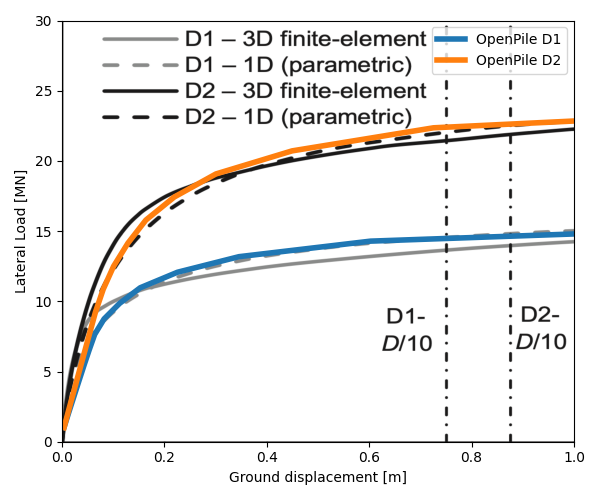
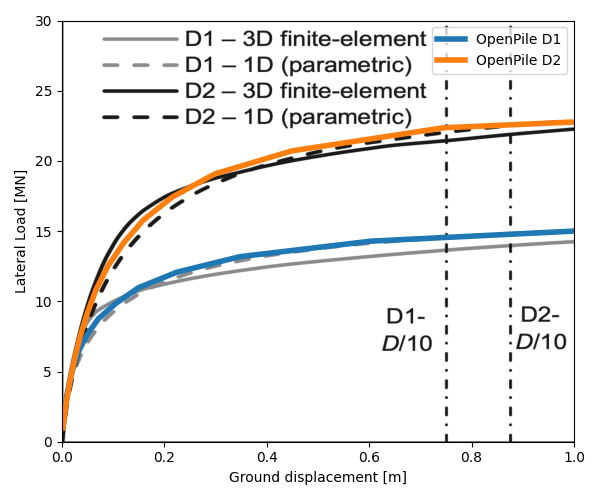
imclusion of scipy sparse matrices

diff --git a/src/openpile/core/kernel.py b/src/openpile/core/kernel.py
@@ -9,8 +9,12 @@
 # general utilities for openfile
 
 from copy import deepcopy
+from dataclasses import dataclass
+
 import numpy as np
 import pandas as pd
+from scipy import sparse
+from scipy.sparse.linalg import spsolve
 from typing_extensions import Literal
 
 from openpile.construct import CircularPileSection
@@ -20,6 +24,8 @@ from openpile.core._model_build import parameter2elements
 
 
 def jit_solve(A, b):
+    if sparse.issparse(A):
+        return spsolve(A, b)
     return np.linalg.solve(A, b)
 
 
@@ -40,24 +46,6 @@ def double_inner_njit(in_arr):
         out_arr[1:-1] = np.repeat(in_arr[1:-1], 2)
 
     return out_arr
-
-
-def numba_ix(arr, rows, cols):
-    """
-    Numba compatible implementation of arr[np.ix_(rows, cols)] for 2D arrays.
-    :param arr: 2D array to be indexed
-    :param rows: Row indices
-    :param cols: Column indices
-    :return: 2D array with the given rows and columns of the input array
-    """
-    one_d_index = np.zeros(len(rows) * len(cols), dtype=np.int32)
-    for i, r in enumerate(rows):
-        start = i * len(cols)
-        one_d_index[start : start + len(cols)] = cols + arr.shape[1] * r
-
-    arr_1d = arr.reshape((arr.shape[0] * arr.shape[1], 1))
-    slice_1d = np.take(arr_1d, one_d_index)
-    return slice_1d.reshape((len(rows), len(cols)))
 
 
 def global_dof_vector_to_consistent_stacked_array(dof_vector, dim):
@@ -120,10 +108,11 @@ def solve_equations(K, F, U, restraints):
 
         prescribed_disp = U
 
-        Fred = F[prescribed_dof_false] - numba_ix(K, prescribed_dof_false, prescribed_dof_true).dot(
-            prescribed_disp[prescribed_dof_true]
-        )
-        Kred = numba_ix(K, prescribed_dof_false, prescribed_dof_false)
+        # row/column slicing works for both dense arrays and sparse CSR matrices
+        Kft = K[prescribed_dof_false][:, prescribed_dof_true]
+        Kred = K[prescribed_dof_false][:, prescribed_dof_false]
+
+        Fred = F[prescribed_dof_false] - Kft.dot(prescribed_disp[prescribed_dof_true])
 
         U[prescribed_dof_false] = jit_solve(Kred, Fred)
     else:
@@ -690,25 +679,56 @@ def elem_p_delta_stiffness_matrix(model, u):
     return k
 
 
-def jit_build(k, ndim, n_elem, node_per_element, ndof_per_node):
-    # pre-allocate stiffness matrix
-    K = np.zeros((ndim, ndim), dtype=np.float64)
+@dataclass(frozen=True)
+class StiffnessPattern:
+    """Constant CSR structure of the global stiffness matrix.
 
-    for i in range(n_elem):
-        # dummy stiffness matrix that updates at each iteration
-        K_temp = np.zeros((ndim, ndim), dtype=np.float64)
-        # select relevant rows/columns of dummy stiffness matrix
-        start = ndof_per_node * i
-        end = ndof_per_node * i + ndof_per_node * node_per_element
-        K_temp[start:end, start:end] = k[i]
+    It depends only on the mesh connectivity, not on stiffness values, so it can
+    be computed once and reused at every iteration of the solver.
+    """
 
-        # update global stiffness matrix
-        K += K_temp
-
-    return K
+    order: np.ndarray    # permutation of the element-matrix triplets matching (row, col) sort order
+    group: np.ndarray    # CSR data slot each element-matrix entry contributes to
+    indices: np.ndarray  # CSR column indices
+    indptr: np.ndarray   # CSR row pointer
 
 
-def build_stiffness_matrix(model, u=None, kind=None):
+def stiffness_pattern(ndim, n_elem, node_per_element, ndof_per_node) -> StiffnessPattern:
+    n_loc = ndof_per_node * node_per_element
+    # global dof index of each local dof, shape (n_elem, n_loc)
+    dofs = np.arange(n_elem)[:, None] * ndof_per_node + np.arange(n_loc)[None, :]
+    rows = np.repeat(dofs, n_loc, axis=1).ravel()
+    cols = np.tile(dofs, (1, n_loc)).ravel()
+
+    # sort triplets into CSR layout and fold duplicate entries (shared nodes) into unique slots
+    order = np.lexsort((cols, rows))
+    rows_s, cols_s = rows[order], cols[order]
+    new_slot = np.empty(rows_s.shape, dtype=bool)
+    new_slot[0] = True
+    new_slot[1:] = (rows_s[1:] != rows_s[:-1]) | (cols_s[1:] != cols_s[:-1])
+
+    return StiffnessPattern(
+        order=order,
+        group=np.cumsum(new_slot) - 1,
+        indices=cols_s[new_slot],
+        indptr=np.concatenate(([0], np.cumsum(np.bincount(rows_s[new_slot], minlength=ndim)))),
+    )
+
+
+def jit_build(k, ndim, n_elem, node_per_element, ndof_per_node, pattern: StiffnessPattern = None):
+    # assemble all element matrices into a CSR matrix in one vectorized scatter-add
+    if pattern is None:
+        pattern = stiffness_pattern(ndim, n_elem, node_per_element, ndof_per_node)
+
+    data = np.bincount(
+        pattern.group,
+        weights=k.reshape(n_elem, -1).ravel()[pattern.order],
+        minlength=pattern.indices.size,
+    )
+    return sparse.csr_matrix((data, pattern.indices, pattern.indptr), shape=(ndim, ndim))
+
+
+def build_stiffness_matrix(model, n_elem, u=None, kind=None):
     """Builds the stiffness matrix based on the model(element and node) properties
 
     Element stiffness matrices are first computed for each element and then loaded in the global stiffness matrix through summation.
@@ -718,8 +738,8 @@ def build_stiffness_matrix(model, u=None, kind=None):
     ----------
     model : obj from openpile library
         stores all information about nodes elements, and other model-related items, see #TODO:link to model class
-    f: np.ndarray, Optional
-        Global internal force vector.
+    n_elem: int
+        Number of elements in the mesh
     u: np.ndarray, Optional
         Global displacement vector. Must be given if soil_flag is not None
     p_mobilised: np.ndarray, Optional
@@ -729,7 +749,7 @@ def build_stiffness_matrix(model, u=None, kind=None):
 
     Returns
     -------
-    K : numpy array of dim (ndof, ndof)
+    K : scipy.sparse.csr_matrix of dim (ndof, ndof)
         Global stiffness matrix with all dofs in unit:1/kPa.
     """
 
@@ -737,8 +757,6 @@ def build_stiffness_matrix(model, u=None, kind=None):
     ndof_per_node = 3
     # number of nodes per element
     node_per_element = 2
-    # number of elements in mesh
-    n_elem = model.element_number
     # global dimension of the global stiffness matrix can be inferred
     ndim_global = ndof_per_node * n_elem + ndof_per_node
 
@@ -765,7 +783,14 @@ def build_stiffness_matrix(model, u=None, kind=None):
                     )
                 k += elem_mt_stiffness_matrix(model, u, kind)
 
-    K = jit_build(k, ndim_global, n_elem, node_per_element, ndof_per_node)
+    # the CSR pattern only depends on the mesh connectivity, cache it on the model
+    # so that repeated calls (Newton-Raphson iterations) skip the setup work
+    pattern = getattr(model, "_stiffness_pattern", None)
+    if pattern is None or pattern.indptr.size - 1 != ndim_global:
+        pattern = stiffness_pattern(ndim_global, n_elem, node_per_element, ndof_per_node)
+        model._stiffness_pattern = pattern
+
+    K = jit_build(k, ndim_global, n_elem, node_per_element, ndof_per_node, pattern)
 
     # add base springs contribution
     if model.soil is not None:

diff --git a/src/openpile/winkler.py b/src/openpile/winkler.py
@@ -476,7 +476,7 @@ def beam(model):
     d = np.zeros(U.shape)
 
     # initialise global stiffness matrix
-    K = kernel.build_stiffness_matrix(model, d)
+    K = kernel.build_stiffness_matrix(model, model.element_number, u=d)
     # first run with no stress stiffness matrix
     d, Q = kernel.solve_equations(K, F, U, restraints=supports)
 
@@ -528,7 +528,7 @@ def winkler(model, max_iter: int = 100):
         # initialise displacement vectors
         d = np.zeros(U.shape)
         # initialise global stiffness matrix
-        K = kernel.build_stiffness_matrix(model, u=d, kind="initial")
+        K = kernel.build_stiffness_matrix(model, model.element_number, u=d, kind="initial")
         # initialise global supports vector
         supports = (kernel.mesh_to_global_restrained_dof_vector(model.global_restrained)) | (
             U != 0.0
@@ -549,7 +549,7 @@ def winkler(model, max_iter: int = 100):
                 u_inc, Q = kernel.solve_equations(K, Rg, U, restraints=supports)
                 # bump iteration number
                 iter_no += 1
-            except np.linalg.LinAlgError:
+            except (np.linalg.LinAlgError, RuntimeError):
                 print(
                     """Cannot converge. Failure of the pile-soil system.\n
                       Boundary conditions may not be realistic or values may be too large."""
@@ -569,7 +569,7 @@ def winkler(model, max_iter: int = 100):
             d += u_inc
 
             # calculate internal forces
-            K_secant = kernel.build_stiffness_matrix(model, u=d, kind="secant")
+            K_secant = kernel.build_stiffness_matrix(model, model.element_number, u=d, kind="secant")
             F_int = -K_secant.dot(d)
 
             # calculate residual forces
@@ -581,7 +581,7 @@ def winkler(model, max_iter: int = 100):
                 print(f"Converged at iteration no. {iter_no}")
 
                 # final stiffness matrix
-                K_final = kernel.build_stiffness_matrix(model, u=d, kind="secant")
+                K_final = kernel.build_stiffness_matrix(model, model.element_number, u=d, kind="secant")
 
                 # calculate final reaction forces
                 _, Q = kernel.solve_equations(
@@ -601,7 +601,7 @@ def winkler(model, max_iter: int = 100):
                 d = np.full(U.shape, np.nan)
 
             # re-calculate global stiffness matrix for next iterations
-            K = kernel.build_stiffness_matrix(model, u=d, kind="tangent")
+            K = kernel.build_stiffness_matrix(model, model.element_number, u=d, kind="tangent")
 
             # reset prescribed displacements to converge properly in case
             # of displacement-driven analysis

diff --git a/src/openpile/core/misc.py b/src/openpile/core/misc.py
@@ -254,8 +254,11 @@ def conic(
             else:
                 b = 2 * n * x[i] / x_u - (1 - n) * (1 + x[i] * k / y_u)
                 c = x[i] * (k / y_u) * (1 - n) - n * (x[i] ** 2 / x_u**2)
+                # discriminant is non-negative in theory, but catastrophic cancellation
+                # rounds it to a tiny negative number when k ~ y_u/x_u (q ~ 1)
+                disc = max(b**2 - 4 * a * c, 0.0)
 
-                y[i] = y_u * 2 * c / (-b + (b**2 - 4 * a * c) ** 0.5)
+                y[i] = y_u * 2 * c / (-b + disc**0.5)
         else:
             y[i] = y_u
 
